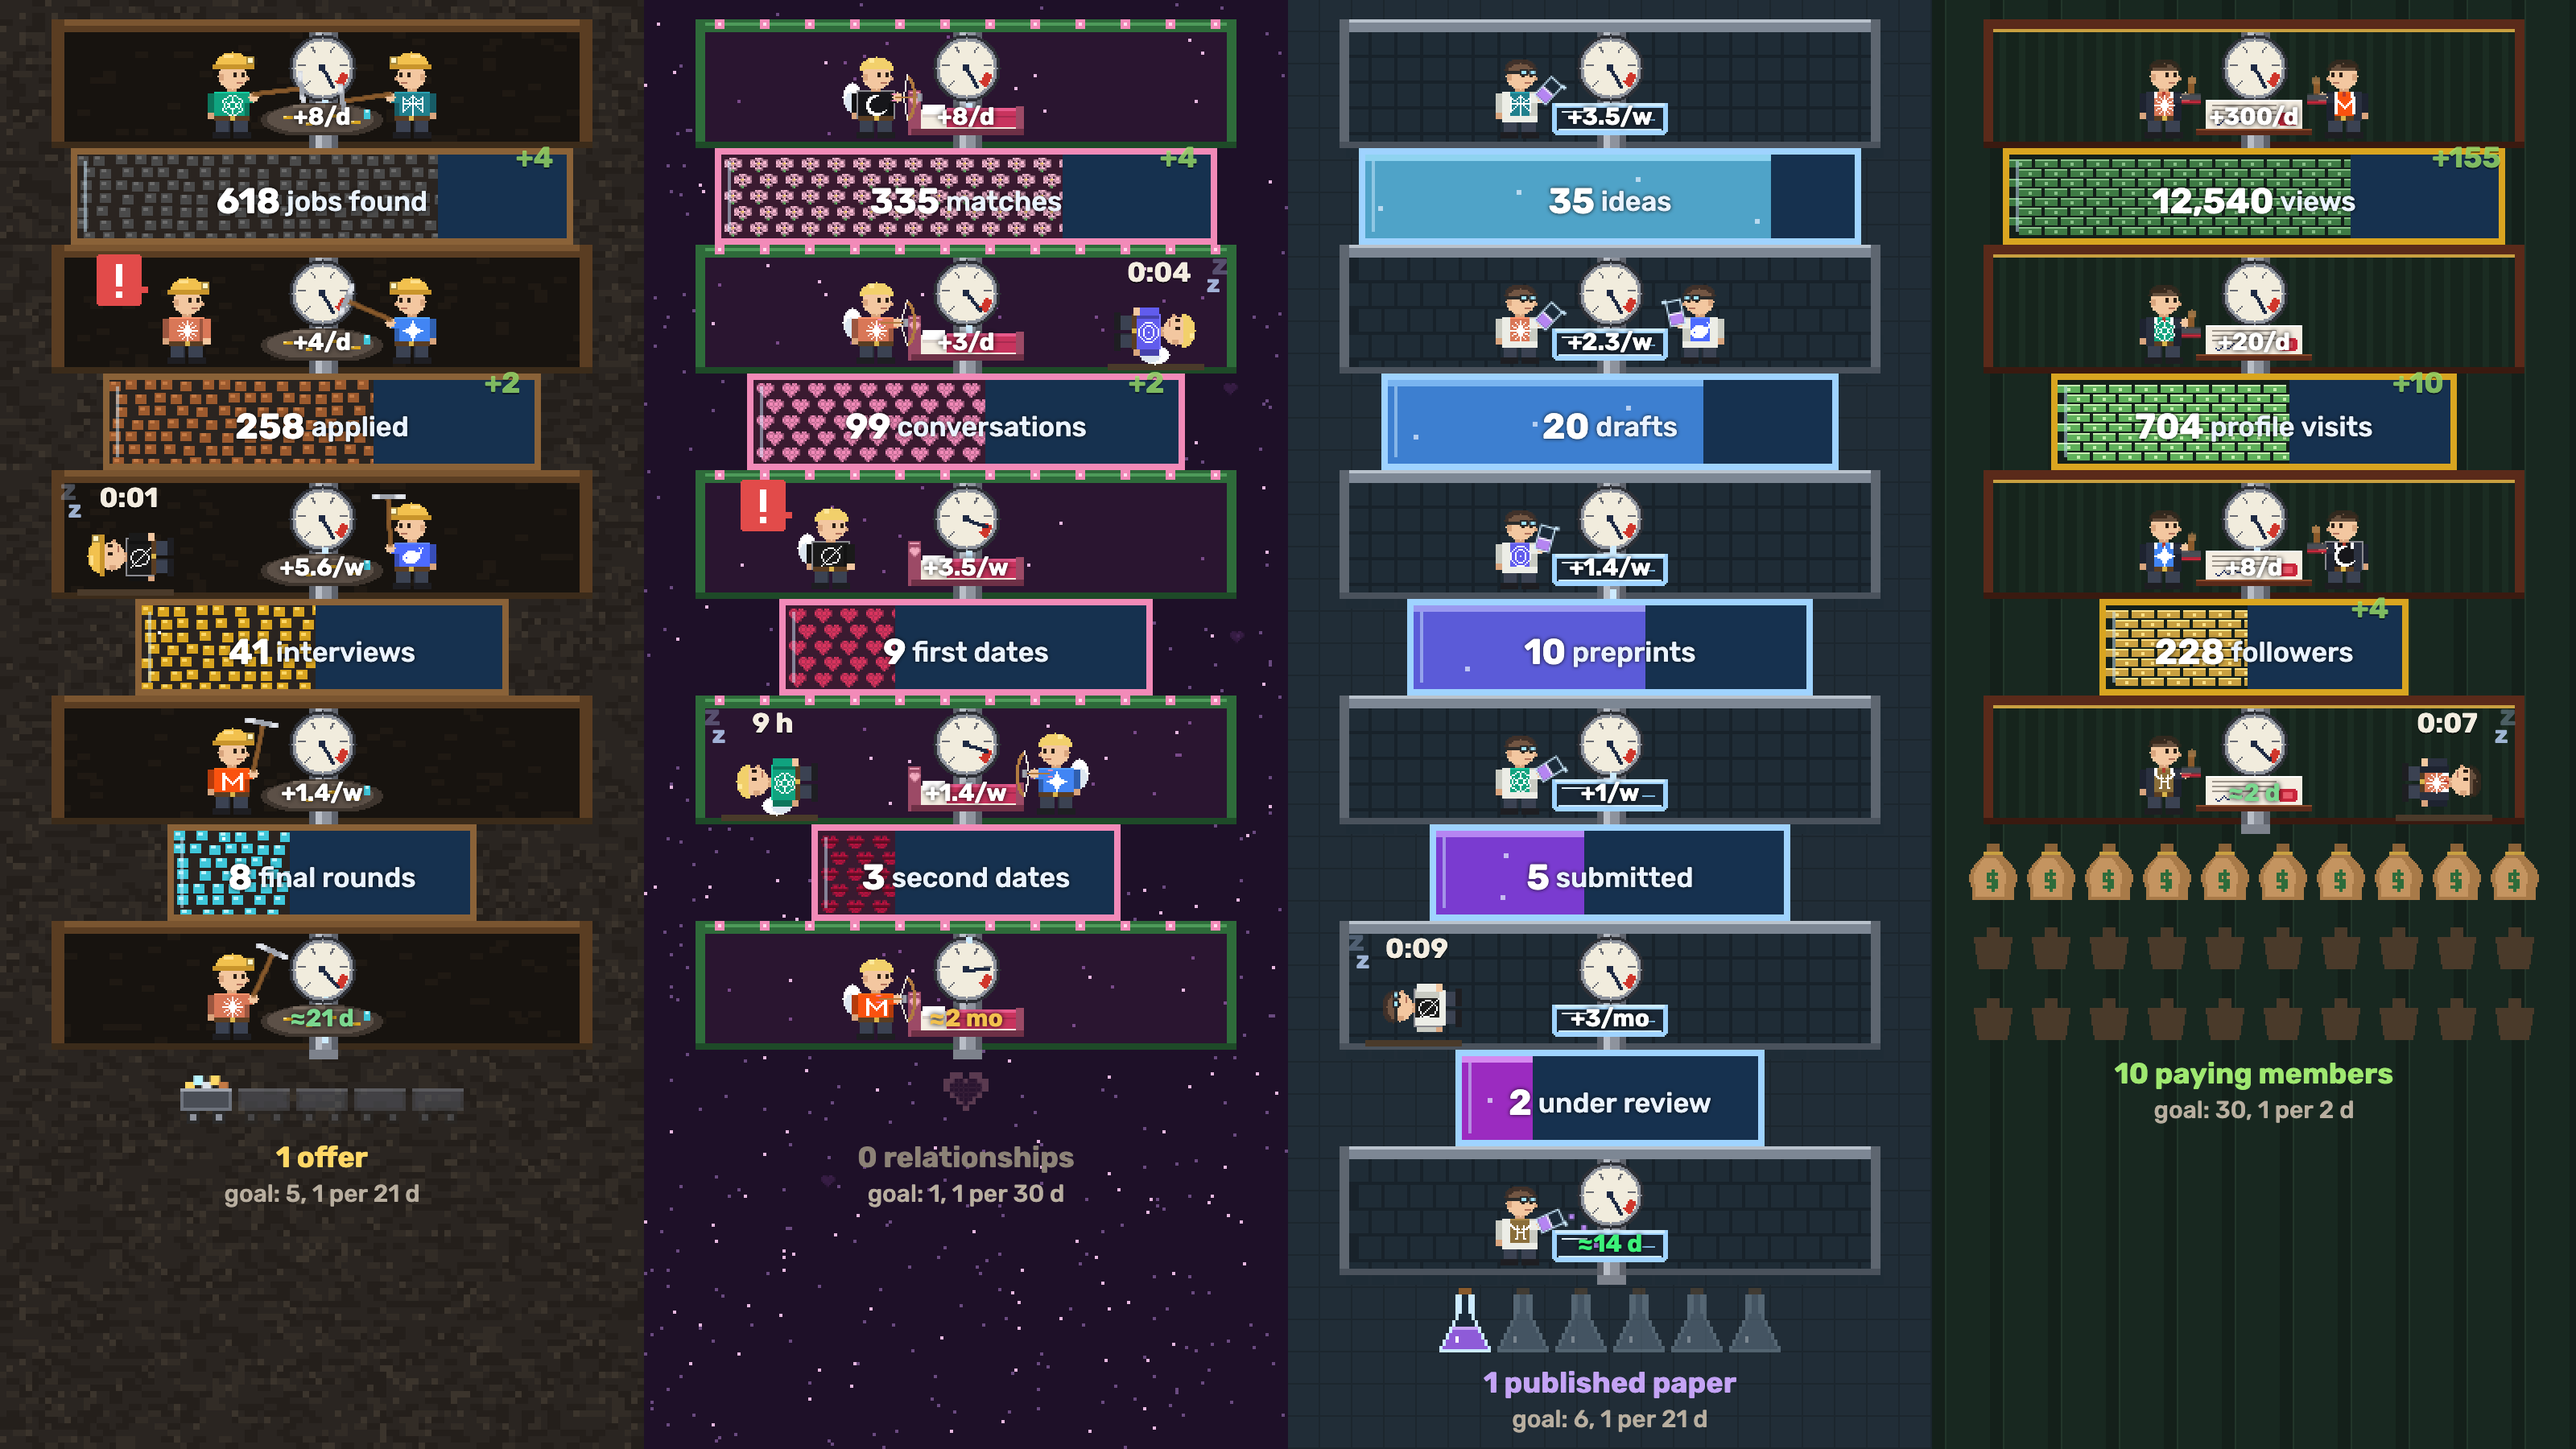
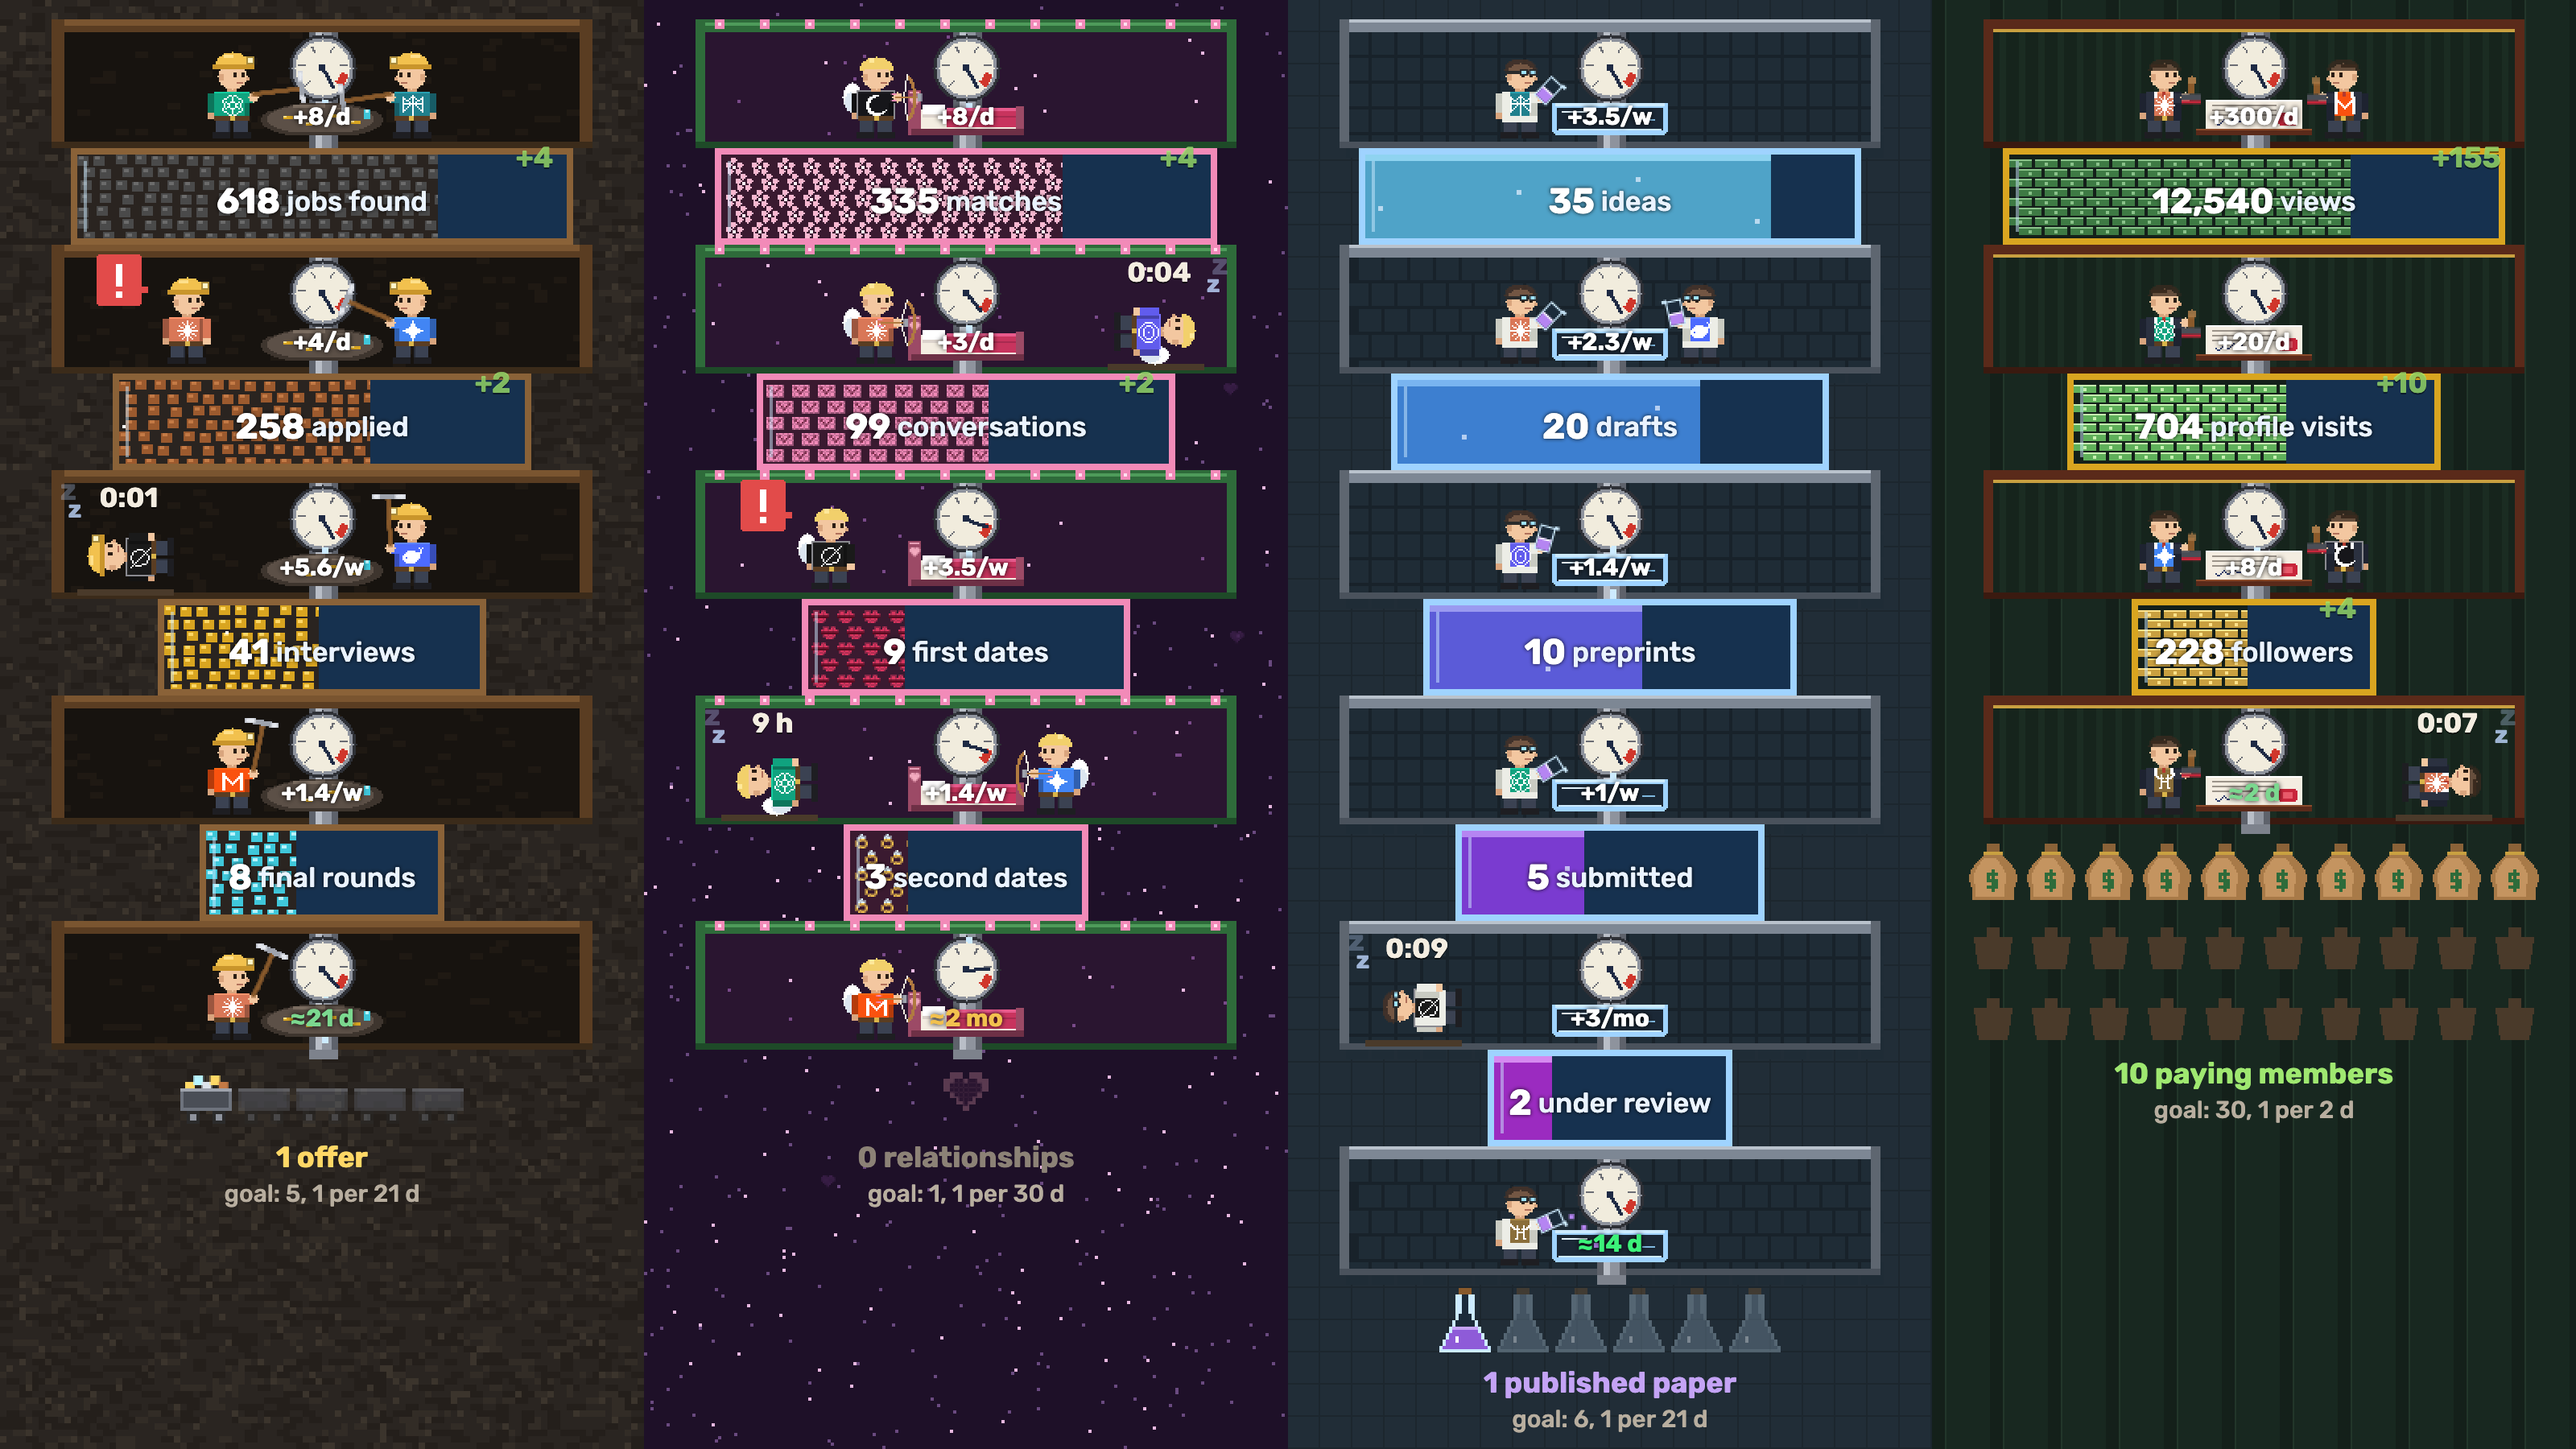
Five stage looks in every theme; bottom tank 20% narrower; free and Pro plan limits

diff --git a/supabase/functions/mcp/index.ts b/supabase/functions/mcp/index.ts
@@ -20,6 +20,7 @@ const INSTRUCTIONS = `GoalAgents shows the person their goals as funnels and the
 A funnel is one goal (e.g. "Job Search") with 2-5 stages top to bottom (jobs found → applied → interview → final round) and a result at the bottom (offer).
 Zones: 0 is the inflow above the first stage, zone k moves stage k-1 into stage k, zone n (below the last stage) turns the last stage into results. At most two agents per zone.
 On every run: set_agent_state(work) in your zone; after progress report_counts (and add_result when a result appears); if you need the person, set_agent_state(ask, question) and poll get_answer; at the end set_agent_state(sleep, next_run_at) or clear_agent.
+Plans: free has up to 3 funnels with up to 3 stages each; Pro has any number of funnels with up to 5 stages each. list_funnels tells which plan the person has.
 Report only counts, dates and links. Item lists stay in the person's own sources (e.g. a Google Sheet, linked as source_url).`
 
 const text = (v: unknown) => ({ content: [{ type: 'text' as const, text: JSON.stringify(v, null, 1) }] })
@@ -59,19 +60,26 @@ async function funnels(db: Db, key?: string) {
 }
 const one = async (db: Db, key: string) => (await funnels(db, key))[0]
 
+// Free: 3 funnels of up to 3 stages. Pro: any number of funnels of up to 5 stages.
+async function plan(db: Db) {
+  const row = check(await db.from('accounts').select('plan').maybeSingle()) as { plan: string } | null
+  const name = row?.plan ?? 'free'
+  return { plan: name, max_funnels: name === 'pro' ? null : 3, max_stages: name === 'pro' ? 5 : 3 }
+}
+
 function server(db: Db) {
   const s = new McpServer({ name: 'goalagents', version: '0.1.0' }, { instructions: INSTRUCTIONS })
 
   s.registerTool('list_funnels', {
     title: 'List funnels',
-    description: 'The person\'s goal funnels: stages with counts, results, goal, agents present and open questions.',
+    description: 'The person\'s plan with its limits, and their goal funnels: stages with counts, results, goal, agents present and open questions.',
     inputSchema: z.object({}),
     annotations: { readOnlyHint: true },
-  }, async () => text(await funnels(db)))
+  }, async () => text({ ...(await plan(db)), funnels: await funnels(db) }))
 
   s.registerTool('upsert_funnel', {
     title: 'Create or update a funnel',
-    description: 'Create a goal funnel or change its title, result name, goal, theme or stages. Stages keep their counts by key; stages left out are removed.',
+    description: 'Create a goal funnel or change its title, result name, goal, theme or stages. Stages keep their counts by key; stages left out are removed. Free plan: up to 3 funnels of up to 3 stages; Pro: any number of funnels of up to 5 stages.',
     inputSchema: z.object({
       id: funnelId,
       title: z.string().min(1).max(60).describe('Column title, e.g. "Job Search"'),
@@ -89,6 +97,8 @@ function server(db: Db) {
   }, async (a) => {
     const keys = a.stages.map(st => st.key)
     if (new Set(keys).size !== keys.length) fail('Stage keys must be unique')
+    const p = await plan(db)
+    if (a.stages.length > p.max_stages) fail(`The ${p.plan} plan has up to ${p.max_stages} stages per funnel. Merge some stages, or the person can upgrade to Pro for up to 5.`)
     const f = check(await db.from('funnels').upsert({
       key: a.id, title: a.title, result: a.result, theme: a.theme ?? 'mine',
       goal_total: a.goal_total, goal_every_days: a.goal_every_days,

diff --git a/src/themes.js b/src/themes.js
@@ -28,7 +28,7 @@ function pixmap(c, x, y, s, rows, colors) {
     }
   });
 }
-// Romance from light to close, top stages to bottom: a flower, a heart, a kiss.
+// Romance from light to close, top stages to bottom: a flower, a love letter, a heart, a kiss, a ring.
 // The flower is seen from above: five round petals around a pale centre, on half-unit pixels.
 function flower(c, x, y, s, col) {
   const cx = x + 2.75, cy = y + 2.5;
@@ -44,6 +44,10 @@ function flower(c, x, y, s, col) {
   }
   disc(cx, cy, 0.6, '#FFF0F6');
 }
+const letter = (c, x, y, s, col) => pixmap(c, x, y + 0.5, s,
+  ['EEEEEEE', 'EDEEEDE', 'EEDEDEE', 'EEEDEEE', 'EEEEEEE'], { E: col, D: '#7A2A48' });
+const ring = (c, x, y, s) => pixmap(c, x, y, s,
+  ['...D...', '..DDD..', '..GGG..', '.G...G.', '.G...G.', '..GGG..'], { G: '#F2C14E', D: '#DFF6FF' });
 const lips = (c, x, y, s, col) => pixmap(c, x, y, s,
   ['.......', '.LL.LL.', 'LLLLLLL', 'DDDDDDD', '.LLLLL.', '..LLL..'], { L: col, D: '#5A0A1E' });
 
@@ -149,7 +153,7 @@ function tankLab(c, x, y, w, h, j, n, t, seed) {
 }
 
 function tankForge(c, x, y, w, h, j, n) {
-  const [face, rim] = byDepth([['#B87333', '#7A4A20'], ['#C9CED6', '#7F858F'], ['#F2C14E', '#A87A18']], j, n);
+  const [face, rim] = byDepth([['#7D828C', '#4A4E56'], ['#B87333', '#7A4A20'], ['#C9CED6', '#7F858F'], ['#F2C14E', '#A87A18'], ['#E6F4FF', '#8FB8D0']], j, n);
   rect(c, x, y, w, h, '#2A1A12');
   // Bars laid like bricks: every other row shifted by half a bar, in every tank alike.
   for (let cy = y + h - 4, row = 0; cy >= y; cy -= 3, row++) {
@@ -162,7 +166,7 @@ function tankForge(c, x, y, w, h, j, n) {
 function tankLove(c, x, y, w, h, j, n) {
   const col = byDepth(['#F7B8D0', '#F28AB8', '#E85A8C', '#D9345E', '#B8123E'], j, n);
   rect(c, x, y, w, h, '#3A1A30');
-  const draw = byDepth([flower, heart, lips], j, n);
+  const draw = byDepth([flower, letter, heart, lips, ring], j, n);
   for (let hy = y + 1, row = 0; hy < y + h - 3; hy += 5, row++) {
     for (let hx = x + (row % 2 ? 4 : 1); hx < x + w - 6; hx += 8) draw(c, hx, hy, 0.75, col);
   }
@@ -312,7 +316,7 @@ function zoneCode(c, x0, y, w, h) {
 }
 
 function tankCode(c, x, y, w, h, j, n, t, seed) {
-  const [dim, bright] = byDepth([['#123A22', '#2E8A50'], ['#145A30', '#3CC070'], ['#127050', '#3CF2A0'], ['#107A80', '#5CF0F0']], j, n);
+  const [dim, bright] = byDepth([['#123A22', '#2E8A50'], ['#145A30', '#3CC070'], ['#127050', '#3CF2A0'], ['#107A80', '#5CF0F0'], ['#1A4A9A', '#7CB8FF']], j, n);
   rect(c, x, y, w, h, '#06100A');
   const r = rng(seed);
   for (let col = x + 1; col < x + w - 1; col += 2.5) {
@@ -347,7 +351,7 @@ function zoneMoney(c, x0, y, w, h) {
 }
 
 function tankMoney(c, x, y, w, h, j, n) {
-  const [bill, mark] = byDepth([['#3E7A44', '#8AC28A'], ['#4E9A52', '#A6DCA0'], ['#5FB05A', '#C6F0B0'], ['#C9A040', '#FFE38A']], j, n);
+  const [bill, mark] = byDepth([['#3E7A44', '#8AC28A'], ['#4E9A52', '#A6DCA0'], ['#5FB05A', '#C6F0B0'], ['#2F8A6A', '#9FE0C8'], ['#C9A040', '#FFE38A']], j, n);
   rect(c, x, y, w, h, '#14201A');
   for (let by = y + h - 3.5; by > y - 1; by -= 3) {
     for (let bx = x + ((by - y) % 6 < 3 ? 0 : 3); bx < x + w - 6; bx += 8) {

diff --git a/src/scene.js b/src/scene.js
@@ -13,7 +13,9 @@ const tankTop = j => TOP + ZH + j * (LH + ZH);
 const zoneTop = k => (k < 0 ? TOP : tankTop(k) + LH);
 const flasksY = n => zoneTop(n - 1) + ZH + 4;
 export const H = flasksY(MAX_STAGES) + 50;
-const tankW = (j, n) => Math.round((156 - (n > 1 ? j * 60 / (n - 1) : 0)) / 2) * 2;
+// Tanks narrow from 156 at the top to 76 at the bottom whatever their number, so every funnel
+// is the same pyramid; stages in between are spaced evenly.
+const tankW = (j, n) => Math.round((156 - (n > 1 ? j * 80 / (n - 1) : 0)) / 2) * 2;
 const GAUGE_R = 9;
 export const DAY_SECONDS = 2;
 const PER_ROW = 10;  // result items per row under a funnel, the same for every theme

diff --git a/docs/MCP.md b/docs/MCP.md
@@ -7,6 +7,7 @@ GoalAgents is a dashboard of your goals as funnels, worked by your AI agents. Ev
 - Remote MCP server, Streamable HTTP: `https://goalagents.supabase.co/functions/v1/mcp`.
 - Auth: OAuth 2.1 with dynamic client registration, the same flow as other remote connectors (Claude: Connectors → Add custom connector; Claude Code: `claude mcp add --transport http goalagents https://goalagents.supabase.co/functions/v1/mcp`; ChatGPT: Developer mode → Create, OAuth). Supabase Auth is the authorization server; the person signs in on goalagents.run and allows the agent on `/oauth/consent`. No keys to copy.
 - Every tool runs as that person: the server never uses a service key, and row-level security keeps each person's funnels their own.
+- Plans: **free** — up to 3 funnels with up to 3 stages each; **Pro** — any number of funnels with up to 5 stages each (5 is what the dashboard draws). The database enforces the limits; `list_funnels` returns the plan. Payments are not built yet, so Pro is set by hand.
 - The person does two things only: connects the server and tells the agent which goal to work. Agents create funnels, connect sources, and report everything else. The server sends the rules below to the agent as MCP instructions.
 
 ## Model
@@ -21,7 +22,7 @@ GoalAgents is a dashboard of your goals as funnels, worked by your AI agents. Ev
 | `theme` | Look of the column: `mine` (miners, ore, carts), `lab` (chemists, liquids, flasks), `forge` (smiths, coins, chests), `love` (cupids, hearts), `code` (hackers, code, chips), `money` (bankers, banknotes, money bags). Default `mine` |
 | `goal.total` | How many results the goal needs |
 | `goal.every_days` | Pace: one result every N days |
-| `stages` | 2–5 stages, top to bottom |
+| `stages` | 2–5 stages, top to bottom (free plan: 2–3) |
 | `results` | How many results came out so far |
 
 **Stage** — one tank.
@@ -53,7 +54,7 @@ Only counts, dates and links are stored. Item lists (vacancies, people, papers) 
 
 | Tool | Does |
 |---|---|
-| `list_funnels()` | Funnels, stages, counts, results, goal, agents present and open questions |
+| `list_funnels()` | The plan and its limits; funnels, stages, counts, results, goal, agents present and open questions |
 | `upsert_funnel(id, title, result, goal_total, goal_every_days, theme?, stages[])` | Create or update a funnel and its stages (`key`, `label`, `source_url`); stages keep their counts by key |
 | `report_counts(funnel_id, counts{stage_key: n}, results?)` | Current counts after the agent's work; the server stores each report with a timestamp |
 | `add_result(funnel_id)` | One more result came out (increments `results`) |

diff --git a/README.md b/README.md
@@ -32,8 +32,8 @@ Each funnel picks a look; the data and behaviour are the same.
 |---|---|---|---|---|
 | `mine` | miners with pickaxes | ore rock | ore and gems, richer by stage | ore carts |
 | `lab` | chemists pouring reagents | Petri dish | liquid, deeper colour by stage | flasks |
-| `forge` | smiths with hammers | anvil | bars laid like bricks: copper, silver, gold | chests |
-| `love` | cupids with bows | bed | flowers, then hearts, then kisses, pink to red | hearts |
+| `forge` | smiths with hammers | anvil | bars laid like bricks: iron, copper, silver, gold, platinum | chests |
+| `love` | cupids with bows | bed | flowers, love letters, hearts, kisses, rings: pink to red | hearts |
 | `code` | hackers on laptops | keyboard | scrolling code | chips |
 | `money` | bankers with stamps | contract | banknotes, gold at the end | money bags |
 
